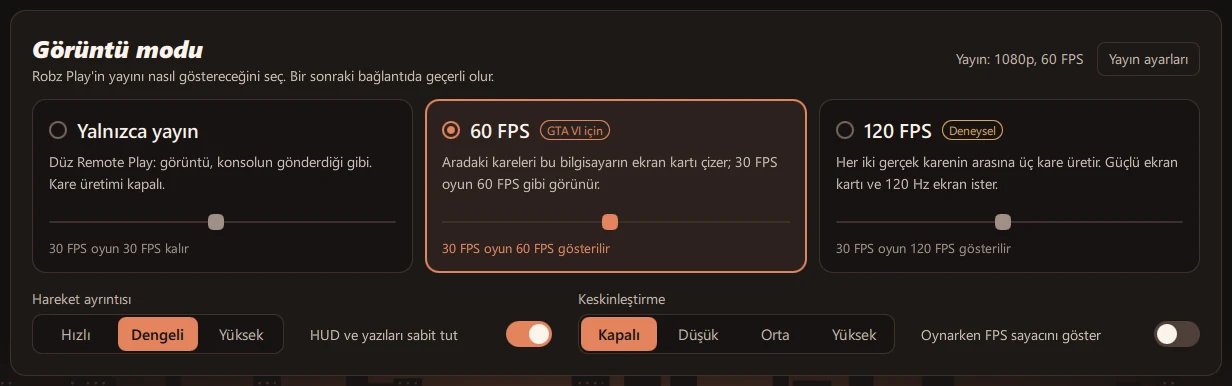
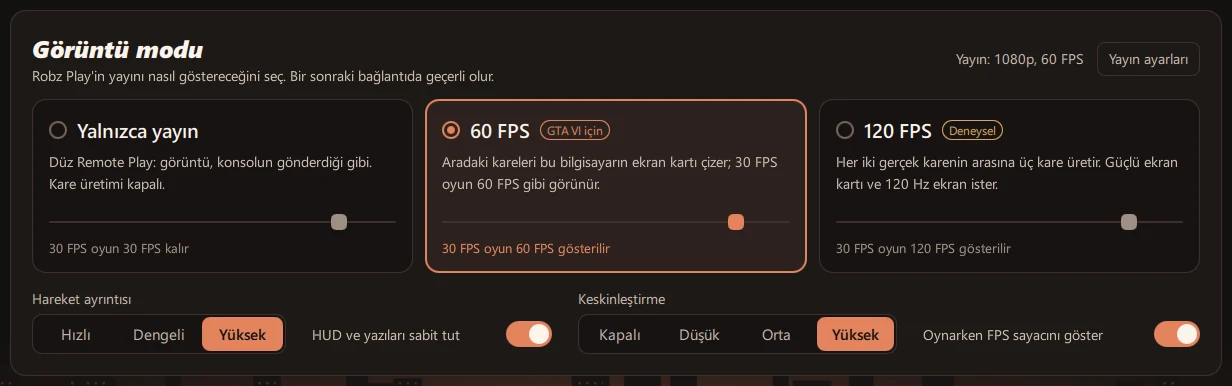
Site: İngilizce sayfada İngilizce görseller, 0.4.1 ekran görüntüleri
İngilizce sayfa artık ekran görüntülerinin, 30 / 60 animasyonunun, destek
banner'ının ve tweet görselinin İngilizcesini gösteriyor. Ekran görüntüleri
0.4.1 ile yeniden çekildi; animasyon, banner ve tweet görseli yeni temayla
yeniden üretildi.

diff --git a/en/index.html b/en/index.html
@@ -114,7 +114,7 @@
     </div>
 
     <figure class="compare-media">
-      <img src="../img/gta-vi-30-vs-60.webp" width="966" height="318" loading="lazy" decoding="async" alt="Animation: on the left, labelled PS Remote Play, 30 FPS; on the right, labelled Robz Play, 60 FPS; a pickup truck turning on a beach and kicking up dust">
+      <img src="../img/gta-vi-30-vs-60-en.webp" width="966" height="318" loading="lazy" decoding="async" alt="Animation: on the left, labelled PS Remote Play (simulated), 30 FPS; on the right, labelled Robz Play, 60 FPS; a pickup truck turning on a beach and kicking up dust">
       <figcaption>The left side is illustrative: it is the same recording reduced to 30 FPS. The recording was taken from the Robz Play window with OBS; the animation plays at its real speed of 60 FPS.</figcaption>
     </figure>
 
@@ -209,7 +209,7 @@
     <div class="section-head">
       <span class="kicker">Step by step</span>
       <h2 id="kurulum-baslik">From download to your first game</h2>
-      <p>The first four steps are preparation; the rest happen in the app. The screenshots were taken from Robz Play 0.4.0, with the console's address and ID hidden by streamer mode.</p>
+      <p>The first four steps are preparation; the rest happen in the app. The screenshots were taken from Robz Play 0.4.1, with the console's address and ID hidden by streamer mode.</p>
       <p><strong>Most screenshots show the Turkish interface</strong> (the console setup ones are in English). The app switches to English with the flag in its sidebar; the English button names are given in the steps.</p>
     </div>
 
@@ -268,7 +268,7 @@
           <p>If chiaki-ng is installed on your PC, Robz Play takes over its settings and registered consoles on first launch; if your console is already linked, skip step 6.</p>
         </div>
         <figure class="shot">
-          <a href="../img/app-ana-ekran.webp"><img src="../img/app-ana-ekran.webp" width="1584" height="891" loading="lazy" decoding="async" alt="Robz Play home screen in Turkish: a menu with Kick and Discord links on the left; the PS5 found on the network with its Set up (Kur) button at the top; the Picture mode section with Stream only, 60 FPS and 120 FPS in the middle"></a>
+          <a href="../img/app-ana-ekran.webp"><img src="../img/app-ana-ekran-en.webp" width="1584" height="891" loading="lazy" decoding="async" alt="Robz Play home screen: a menu with Kick and Discord links on the left; the PS5 found on the network with its Set up button at the top; the Picture mode section with Stream only, 60 FPS and 120 FPS in the middle"></a>
           <figcaption>The home screen. The console card reads "Adres gizli" and "ID gizli" (address and ID hidden): streamer mode was on when the screenshot was taken.</figcaption>
         </figure>
       </li>
@@ -291,15 +291,15 @@
           </ol>
         </div>
         <figure class="shot">
-          <a href="../img/app-konsol-kur.webp"><img src="../img/app-konsol-kur.webp" width="1232" height="184" loading="lazy" decoding="async" alt="The card of the console found on the network: on, not set up yet; the Set up (Kur) button on the right"></a>
+          <a href="../img/app-konsol-kur.webp"><img src="../img/app-konsol-kur-en.webp" width="1232" height="184" loading="lazy" decoding="async" alt="The card of the console found on the network: in rest mode, not set up yet; the Set up button on the right"></a>
         </figure>
         <div class="shot-pair">
           <figure class="shot">
-            <a href="../img/app-kurulum-hesap-en.webp"><img src="../img/app-kurulum-hesap-en.webp" width="1584" height="891" loading="lazy" decoding="async" alt="Register Console, step 2 Account: the two ways; the four steps of Sign in in the browser (open the sign-in page, sign in, copy the address, come back and paste); on the right both ways explained and where the privacy settings are"></a>
+            <a href="../img/app-kurulum-hesap-en.webp"><img src="../img/app-kurulum-hesap-en.webp" width="1584" height="861" loading="lazy" decoding="async" alt="Register Console, step 2 Account: the two ways; the four steps of Sign in in the browser (open the sign-in page, sign in, copy the address, come back and paste); on the right both ways explained and where the privacy settings are"></a>
             <figcaption>Step 2: your PlayStation account, one of two ways. The right side explains both and what to watch out for.</figcaption>
           </figure>
           <figure class="shot">
-            <a href="../img/app-kurulum-kod-en.webp"><img src="../img/app-kurulum-kod-en.webp" width="1584" height="891" loading="lazy" decoding="async" alt="Register Console, step 3 Pairing code: the menu path on the PS5, Settings, System, Remote Play, Link Device; the 8-digit code field; on the right what the code is"></a>
+            <a href="../img/app-kurulum-kod-en.webp"><img src="../img/app-kurulum-kod-en.webp" width="1584" height="861" loading="lazy" decoding="async" alt="Register Console, step 3 Pairing code: the menu path on the PS5, Settings, System, Remote Play, Link Device; the 8-digit code field; on the right what the code is"></a>
             <figcaption>Step 3: the code from the PS5. Streamer mode was on for these screenshots.</figcaption>
           </figure>
         </div>
@@ -312,7 +312,7 @@
           <p>For GTA VI, choose <strong>60 FPS</strong>; it is the default. If you do not want frame generation, choose <strong>Stream only</strong>; if you have a powerful card and a 120 Hz screen, try the experimental <strong>120 FPS</strong>. The mode takes effect on the next connection. <strong>Motion detail</strong>, <strong>Keep HUD and text steady</strong>, <strong>Sharpening</strong> and the <strong>FPS counter</strong> are right below it.</p>
         </div>
         <figure class="shot">
-          <a href="../img/app-goruntu-modu.webp"><img src="../img/app-goruntu-modu.webp" width="1232" height="386" loading="lazy" decoding="async" alt="Picture mode section in Turkish: 60 FPS (For GTA VI) selected; below it Motion detail set to Balanced, Keep HUD and text steady on, Sharpening off, FPS counter off"></a>
+          <a href="../img/app-goruntu-modu.webp"><img src="../img/app-goruntu-modu-en.webp" width="1232" height="386" loading="lazy" decoding="async" alt="Picture mode section: 60 FPS (For GTA VI) selected; below it Motion detail High, Keep HUD and text steady on, Sharpening High, FPS counter on"></a>
         </figure>
       </li>
 
@@ -323,7 +323,7 @@
           <p>Once the console is registered, its card shows a <strong>Play</strong> button. Press it and Robz Play connects to the PS5; if the rest mode settings from step 4 are on, a sleeping console is woken up too. When the connection is made, the game appears.</p>
         </div>
         <figure class="shot">
-          <a href="../img/app-baglaniyor.webp"><img src="../img/app-baglaniyor.webp" width="1280" height="720" loading="lazy" decoding="async" alt="Connecting screen: the RP logo in the middle with the text Connecting to your PlayStation in Turkish, before the sunset of the logo; below it a hint about opening the stream menu with Ctrl+O"></a>
+          <a href="../img/app-baglaniyor.webp"><img src="../img/app-baglaniyor-en.webp" width="1280" height="720" loading="lazy" decoding="async" alt="Connecting screen: the RP logo in the middle with the text Connecting to your PlayStation and a note to choose the second profile if the PS5 asks who plays, before the sunset of the logo; below it a hint about opening the stream menu with Ctrl+O"></a>
           <figcaption>The screen you see while connecting.</figcaption>
         </figure>
       </li>
@@ -335,7 +335,7 @@
           <p><kbd>Ctrl</kbd> + <kbd>O</kbd> opens the stream menu: volume, microphone, zoom, sharpening, the FPS counter and the renderer settings change without leaving the game.</p>
         </div>
         <figure class="shot">
-          <a href="../img/app-yayin-menusu.webp"><img src="../img/app-yayin-menusu-cubuk.webp" width="1564" height="162" loading="lazy" decoding="async" alt="Stream menu in Turkish: Volume at 100 percent, Mic, Zoom, Stretch, FPS counter, Sharpening: Off; renderer presets Default, High Quality, High Quality + Spatial Upscaling, High Quality + Advanced Spatial Upscaling, Custom; Display settings"></a>
+          <a href="../img/app-yayin-menusu.webp"><img src="../img/app-yayin-menusu-cubuk-en.webp" width="1564" height="162" loading="lazy" decoding="async" alt="Stream menu: Volume at 100 percent, Mic, Zoom, Stretch, FPS counter, 30 / 60 comparison, Sharpening: High; renderer presets Default, High Quality, HQ + Spatial, HQ + Adv Spatial, Custom; Display settings"></a>
           <figcaption>The stream menu opens at the bottom of the screen.</figcaption>
         </figure>
       </li>
@@ -348,11 +348,11 @@
         </div>
         <div class="shot-pair">
           <figure class="shot">
-            <a href="../img/app-ayarlar-genel.webp"><img src="../img/app-ayarlar-genel.webp" width="1584" height="891" loading="lazy" decoding="async" alt="Settings, General page in Turkish: Frame generation on, FPS counter off, Check for updates on, motion detail Balanced, frame generation target 60 FPS, Keep HUD and text steady on"></a>
+            <a href="../img/app-ayarlar-genel.webp"><img src="../img/app-ayarlar-genel-en.webp" width="1584" height="891" loading="lazy" decoding="async" alt="Settings, General page: Action on disconnect Ask, Frame generation on, FPS counter on, Check for updates on, motion detail High (full resolution), frame generation target 60 FPS, Keep HUD and text steady on, 30 / 60 comparison view off, picture sharpening High"></a>
             <figcaption>General: frame generation and basic settings.</figcaption>
           </figure>
           <figure class="shot">
-            <a href="../img/app-ayarlar-yayin.webp"><img src="../img/app-ayarlar-yayin.webp" width="1584" height="891" loading="lazy" decoding="async" alt="Settings, Stream page in Turkish: 1080p, 60 fps, 100 Mbps and H265 for both Local and Remote"></a>
+            <a href="../img/app-ayarlar-yayin.webp"><img src="../img/app-ayarlar-yayin-en.webp" width="1584" height="891" loading="lazy" decoding="async" alt="Settings, Stream page: 1080p, 60 fps, 100 Mbps and H265 for both Local and Remote"></a>
             <figcaption>Stream: 1080p, 60 FPS, 100 Mbps, H265.</figcaption>
           </figure>
         </div>
@@ -685,7 +685,7 @@
 <section class="section" id="destek" aria-labelledby="destek-baslik">
   <div class="wrap support">
     <figure class="shot">
-      <a href="https://discord.gg/UyyEn7SHm4"><img src="../img/destek-banner.webp" width="1200" height="675" loading="lazy" decoding="async" alt="Free setup support banner in Turkish: for GTA VI, 1080p 60 FPS and Turkish subtitles; help on Discord with setting up Robz Play and Robz Vision; discord.gg/UyyEn7SHm4"></a>
+      <a href="https://discord.gg/UyyEn7SHm4"><img src="../img/destek-banner-en.webp" width="1200" height="675" loading="lazy" decoding="async" alt="Free setup support banner: for GTA VI, 1080p 60 FPS and Turkish subtitles; help on Discord with setting up Robz Play and Robz Vision; discord.gg/UyyEn7SHm4"></a>
     </figure>
     <div>
       <span class="kicker">Free setup help</span>
@@ -714,7 +714,7 @@
     </div>
     <article class="post">
       <a class="post-media" href="https://x.com/robzsogood/status/2123874178713715030" tabindex="-1" aria-hidden="true">
-        <img src="../img/robz-play-tweet.webp" width="1200" height="960" loading="lazy" decoding="async" alt="">
+        <img src="../img/robz-play-tweet-en.webp" width="1200" height="960" loading="lazy" decoding="async" alt="">
       </a>
       <div class="post-body">
         <div class="post-meta">

diff --git a/index.html b/index.html
@@ -209,7 +209,7 @@
     <div class="section-head">
       <span class="kicker">Adım adım</span>
       <h2 id="kurulum-baslik">İndirmekten ilk oyuna</h2>
-      <p>İlk dört adım hazırlık, sonrakiler uygulamanın içinde. Görüntüler Robz Play 0.4.0'dan alındı; konsolun adresi ve kimliği "yayıncı modu" ile gizlendi.</p>
+      <p>İlk dört adım hazırlık, sonrakiler uygulamanın içinde. Görüntüler Robz Play 0.4.1'den alındı; konsolun adresi ve kimliği "yayıncı modu" ile gizlendi.</p>
     </div>
 
     <h3 class="subhead">Hazırlık</h3>
@@ -290,15 +290,15 @@
           </ol>
         </div>
         <figure class="shot">
-          <a href="img/app-konsol-kur.webp"><img src="img/app-konsol-kur.webp" width="1232" height="184" loading="lazy" decoding="async" alt="Ağda bulunan konsolun kartı: Açık, henüz kurulmadı; sağda Kur düğmesi"></a>
+          <a href="img/app-konsol-kur.webp"><img src="img/app-konsol-kur.webp" width="1232" height="184" loading="lazy" decoding="async" alt="Ağda bulunan konsolun kartı: Dinlenme modunda, henüz kurulmadı; sağda Kur düğmesi"></a>
         </figure>
         <div class="shot-pair">
           <figure class="shot">
-            <a href="img/app-kurulum-hesap.webp"><img src="img/app-kurulum-hesap.webp" width="1584" height="891" loading="lazy" decoding="async" alt="Konsolu kaydet, 2. adım Hesap: iki yol seçeneği; seçili Tarayıcıda giriş yap yolunun dört adımı (giriş sayfasını aç, giriş yap, adresi kopyala, Robz Play'e dön ve yapıştır); sağda iki yolun anlatımı ve gizlilik ayarının yeri"></a>
+            <a href="img/app-kurulum-hesap.webp"><img src="img/app-kurulum-hesap.webp" width="1584" height="861" loading="lazy" decoding="async" alt="Konsolu kaydet, 2. adım Hesap: iki yol seçeneği; seçili Tarayıcıda giriş yap yolunun dört adımı (giriş sayfasını aç, giriş yap, adresi kopyala, Robz Play'e dön ve yapıştır); sağda iki yolun anlatımı ve gizlilik ayarının yeri"></a>
             <figcaption>2. adım: PlayStation hesabı, iki yoldan biriyle. Sağ taraf iki yolu ve dikkat edilecekleri anlatır.</figcaption>
           </figure>
           <figure class="shot">
-            <a href="img/app-kurulum-kod.webp"><img src="img/app-kurulum-kod.webp" width="1584" height="891" loading="lazy" decoding="async" alt="Konsolu kaydet, 3. adım Eşleştirme kodu: PS5'te açılacak menü yolu Ayarlar, Sistem, Uzaktan Oynama, Cihazı Bağla; 8 haneli kod alanı; sağda kodun ne olduğu"></a>
+            <a href="img/app-kurulum-kod.webp"><img src="img/app-kurulum-kod.webp" width="1584" height="861" loading="lazy" decoding="async" alt="Konsolu kaydet, 3. adım Eşleştirme kodu: PS5'te açılacak menü yolu Ayarlar, Sistem, Uzaktan Oynama, Cihazı Bağla; 8 haneli kod alanı; sağda kodun ne olduğu"></a>
             <figcaption>3. adım: PS5'teki kod. Görüntüler yayıncı modu açıkken alındı.</figcaption>
           </figure>
         </div>
@@ -311,7 +311,7 @@
           <p>GTA VI için <strong>60 FPS</strong>'i seç; varsayılan mod budur. Kare üretimi istemiyorsan <strong>Yalnızca yayın</strong>, güçlü bir kartın ve 120 Hz ekranın varsa deneysel <strong>120 FPS</strong>. Mod bir sonraki bağlantıda geçerli olur. Altındaki <strong>Hareket ayrıntısı</strong>, <strong>HUD ve yazıları sabit tut</strong>, <strong>Keskinleştirme</strong> ve <strong>FPS sayacı</strong> da buradan değişir.</p>
         </div>
         <figure class="shot">
-          <a href="img/app-goruntu-modu.webp"><img src="img/app-goruntu-modu.webp" width="1232" height="386" loading="lazy" decoding="async" alt="Görüntü modu bölümü: 60 FPS (GTA VI için) seçili; altında Hareket ayrıntısı Dengeli, HUD ve yazıları sabit tut açık, Keskinleştirme Kapalı, FPS sayacı kapalı"></a>
+          <a href="img/app-goruntu-modu.webp"><img src="img/app-goruntu-modu.webp" width="1232" height="386" loading="lazy" decoding="async" alt="Görüntü modu bölümü: 60 FPS (GTA VI için) seçili; altında Hareket ayrıntısı Yüksek, HUD ve yazıları sabit tut açık, Keskinleştirme Yüksek, FPS sayacı açık"></a>
         </figure>
       </li>
 
@@ -322,7 +322,7 @@
           <p>Konsol kaydedildikten sonra kartında <strong>Oyna</strong> düğmesi çıkar. Bastığında Robz Play PS5'e bağlanır; 4. adımdaki dinlenme modu ayarları açıksa uyuyan konsol da uyandırılır. Bağlantı kurulunca oyun görüntüsü gelir.</p>
         </div>
         <figure class="shot">
-          <a href="img/app-baglaniyor.webp"><img src="img/app-baglaniyor.webp" width="1280" height="720" loading="lazy" decoding="async" alt="Bağlanma ekranı: ortada RP logosu ve PlayStation'a bağlanılıyor yazısı, arkada logodaki gün batımı; altta Ctrl+O ile yayın menüsünü açma ipucu"></a>
+          <a href="img/app-baglaniyor.webp"><img src="img/app-baglaniyor.webp" width="1280" height="720" loading="lazy" decoding="async" alt="Bağlanma ekranı: ortada RP logosu ve PlayStation'a bağlanılıyor yazısı, altında PS5 kimin oynayacağını sorarsa ikinci profilin seçileceği notu, arkada logodaki gün batımı; altta Ctrl+O ile yayın menüsünü açma ipucu"></a>
           <figcaption>Bağlanırken görünen ekran.</figcaption>
         </figure>
       </li>
@@ -334,7 +334,7 @@
           <p><kbd>Ctrl</kbd> + <kbd>O</kbd> yayın menüsünü açar: ses düzeyi, mikrofon, yakınlaştırma, keskinleştirme, FPS sayacı ve görüntü işleyici ayarları oyunu bırakmadan değişir.</p>
         </div>
         <figure class="shot">
-          <a href="img/app-yayin-menusu.webp"><img src="img/app-yayin-menusu-cubuk.webp" width="1564" height="162" loading="lazy" decoding="async" alt="Yayın menüsü: Ses yüzde 100, Mikrofon, Yakınlaştır, Esnet, FPS sayacı, Keskinleştirme: Kapalı; Görüntü işleyici seçenekleri Varsayılan, Yüksek kalite, HQ + Uzamsal, HQ + İleri uzamsal, Özel; Ekran ayarları"></a>
+          <a href="img/app-yayin-menusu.webp"><img src="img/app-yayin-menusu-cubuk.webp" width="1564" height="162" loading="lazy" decoding="async" alt="Yayın menüsü: Ses yüzde 100, Mikrofon, Yakınlaştır, Esnet, FPS sayacı, 30 / 60 karşılaştırma, Keskinleştirme: Yüksek; Görüntü işleyici seçenekleri Varsayılan, Yüksek kalite, HQ + Uzamsal, HQ + İleri uzamsal, Özel; Ekran ayarları"></a>
           <figcaption>Yayın menüsü, ekranın altında açılır.</figcaption>
         </figure>
       </li>
@@ -347,7 +347,7 @@
         </div>
         <div class="shot-pair">
           <figure class="shot">
-            <a href="img/app-ayarlar-genel.webp"><img src="img/app-ayarlar-genel.webp" width="1584" height="891" loading="lazy" decoding="async" alt="Ayarlar, Genel sayfası: Kare üretimi açık, FPS sayacı kapalı, Güncellemeleri denetle açık, hareket ayrıntısı Dengeli, kare üretimi hedefi 60 FPS, HUD ve yazıları sabit tut açık"></a>
+            <a href="img/app-ayarlar-genel.webp"><img src="img/app-ayarlar-genel.webp" width="1584" height="891" loading="lazy" decoding="async" alt="Ayarlar, Genel sayfası: Bağlantı kesilince Sor, Kare üretimi açık, FPS sayacı açık, Güncellemeleri denetle açık, hareket ayrıntısı Yüksek, kare üretimi hedefi 60 FPS, HUD ve yazıları sabit tut açık, 30 / 60 karşılaştırma kapalı, keskinleştirme Yüksek"></a>
             <figcaption>Genel: kare üretimi ve temel ayarlar.</figcaption>
           </figure>
           <figure class="shot">
